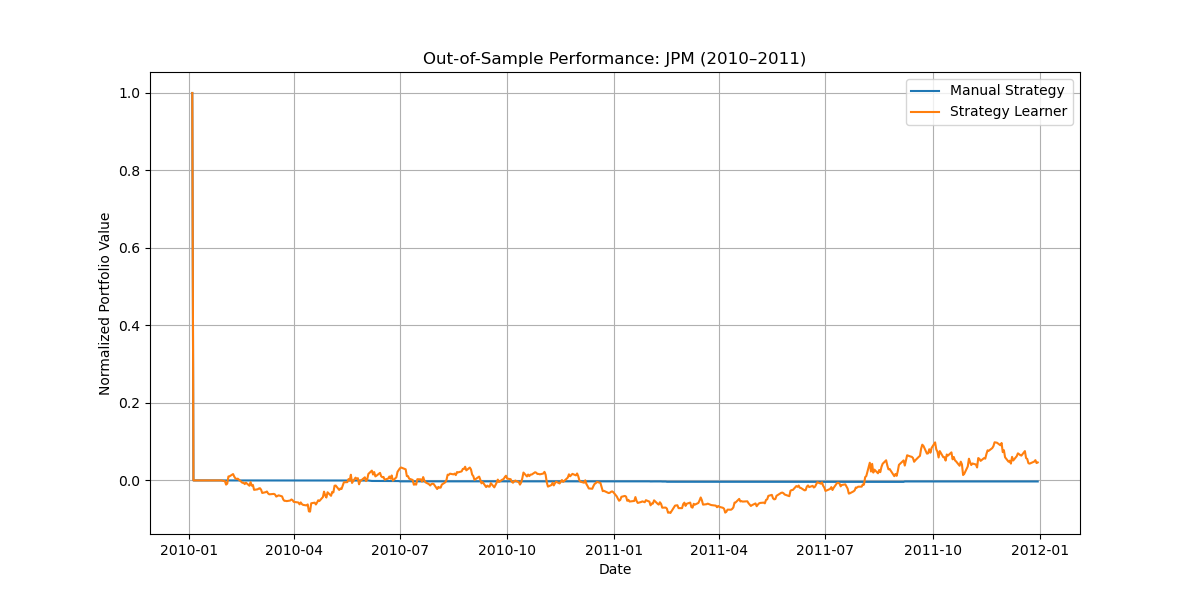
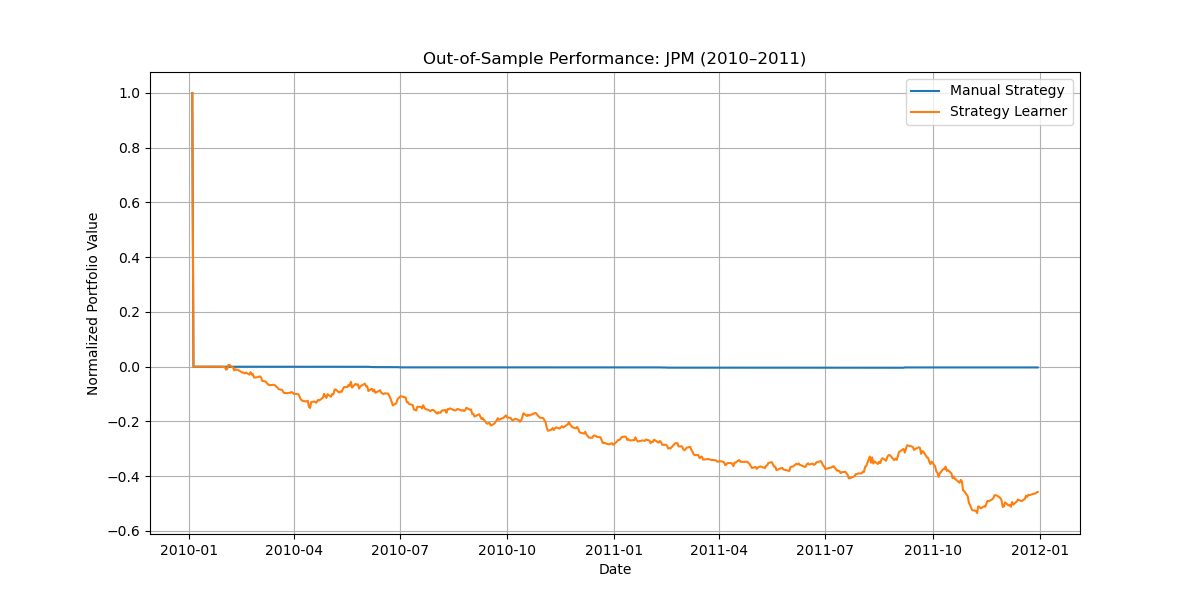
change nest sun

diff --git a/strategy_evaluation/StrategyLearner.py b/strategy_evaluation/StrategyLearner.py
@@ -40,13 +40,13 @@ class StrategyLearner:
         self.impact = impact
         self.commission = commission
         self.learner = ql.QLearner(
-            num_states=1000,
-            num_actions=4,
+            num_states=1500,
+            num_actions=3,
             alpha=0.2,
             gamma=0.9,
-            rar=0.6,
-            radr=0.95,
-            dyna=1,
+            rar=0.5,
+            radr=0.93,
+            dyna=0,
             verbose=False
         )
         self.sma_window = 20
@@ -87,7 +87,7 @@ class StrategyLearner:
         states = self._compute_states(df_indicators)
 
         # origin lopp
-        for epoch in range(10):
+        for epoch in range(30):
             for i in range(len(states) - 5):
                 s = states[i]
                 r = returns.iloc[i + 5] * 1000  # reward scaling
@@ -144,7 +144,7 @@ class StrategyLearner:
 
     def _compute_states(self, df):
         # Discretize each indicator into 10 bins and create composite state
-        bins = 10
+        bins = 12
         bbp_bins = pd.qcut(df['BBP'], bins, labels=False, duplicates='drop')
         macd_bins = pd.qcut(df['MACD'], bins, labels=False, duplicates='drop')
         rsi_bins = pd.qcut(df['RSI'], bins, labels=False, duplicates='drop')
